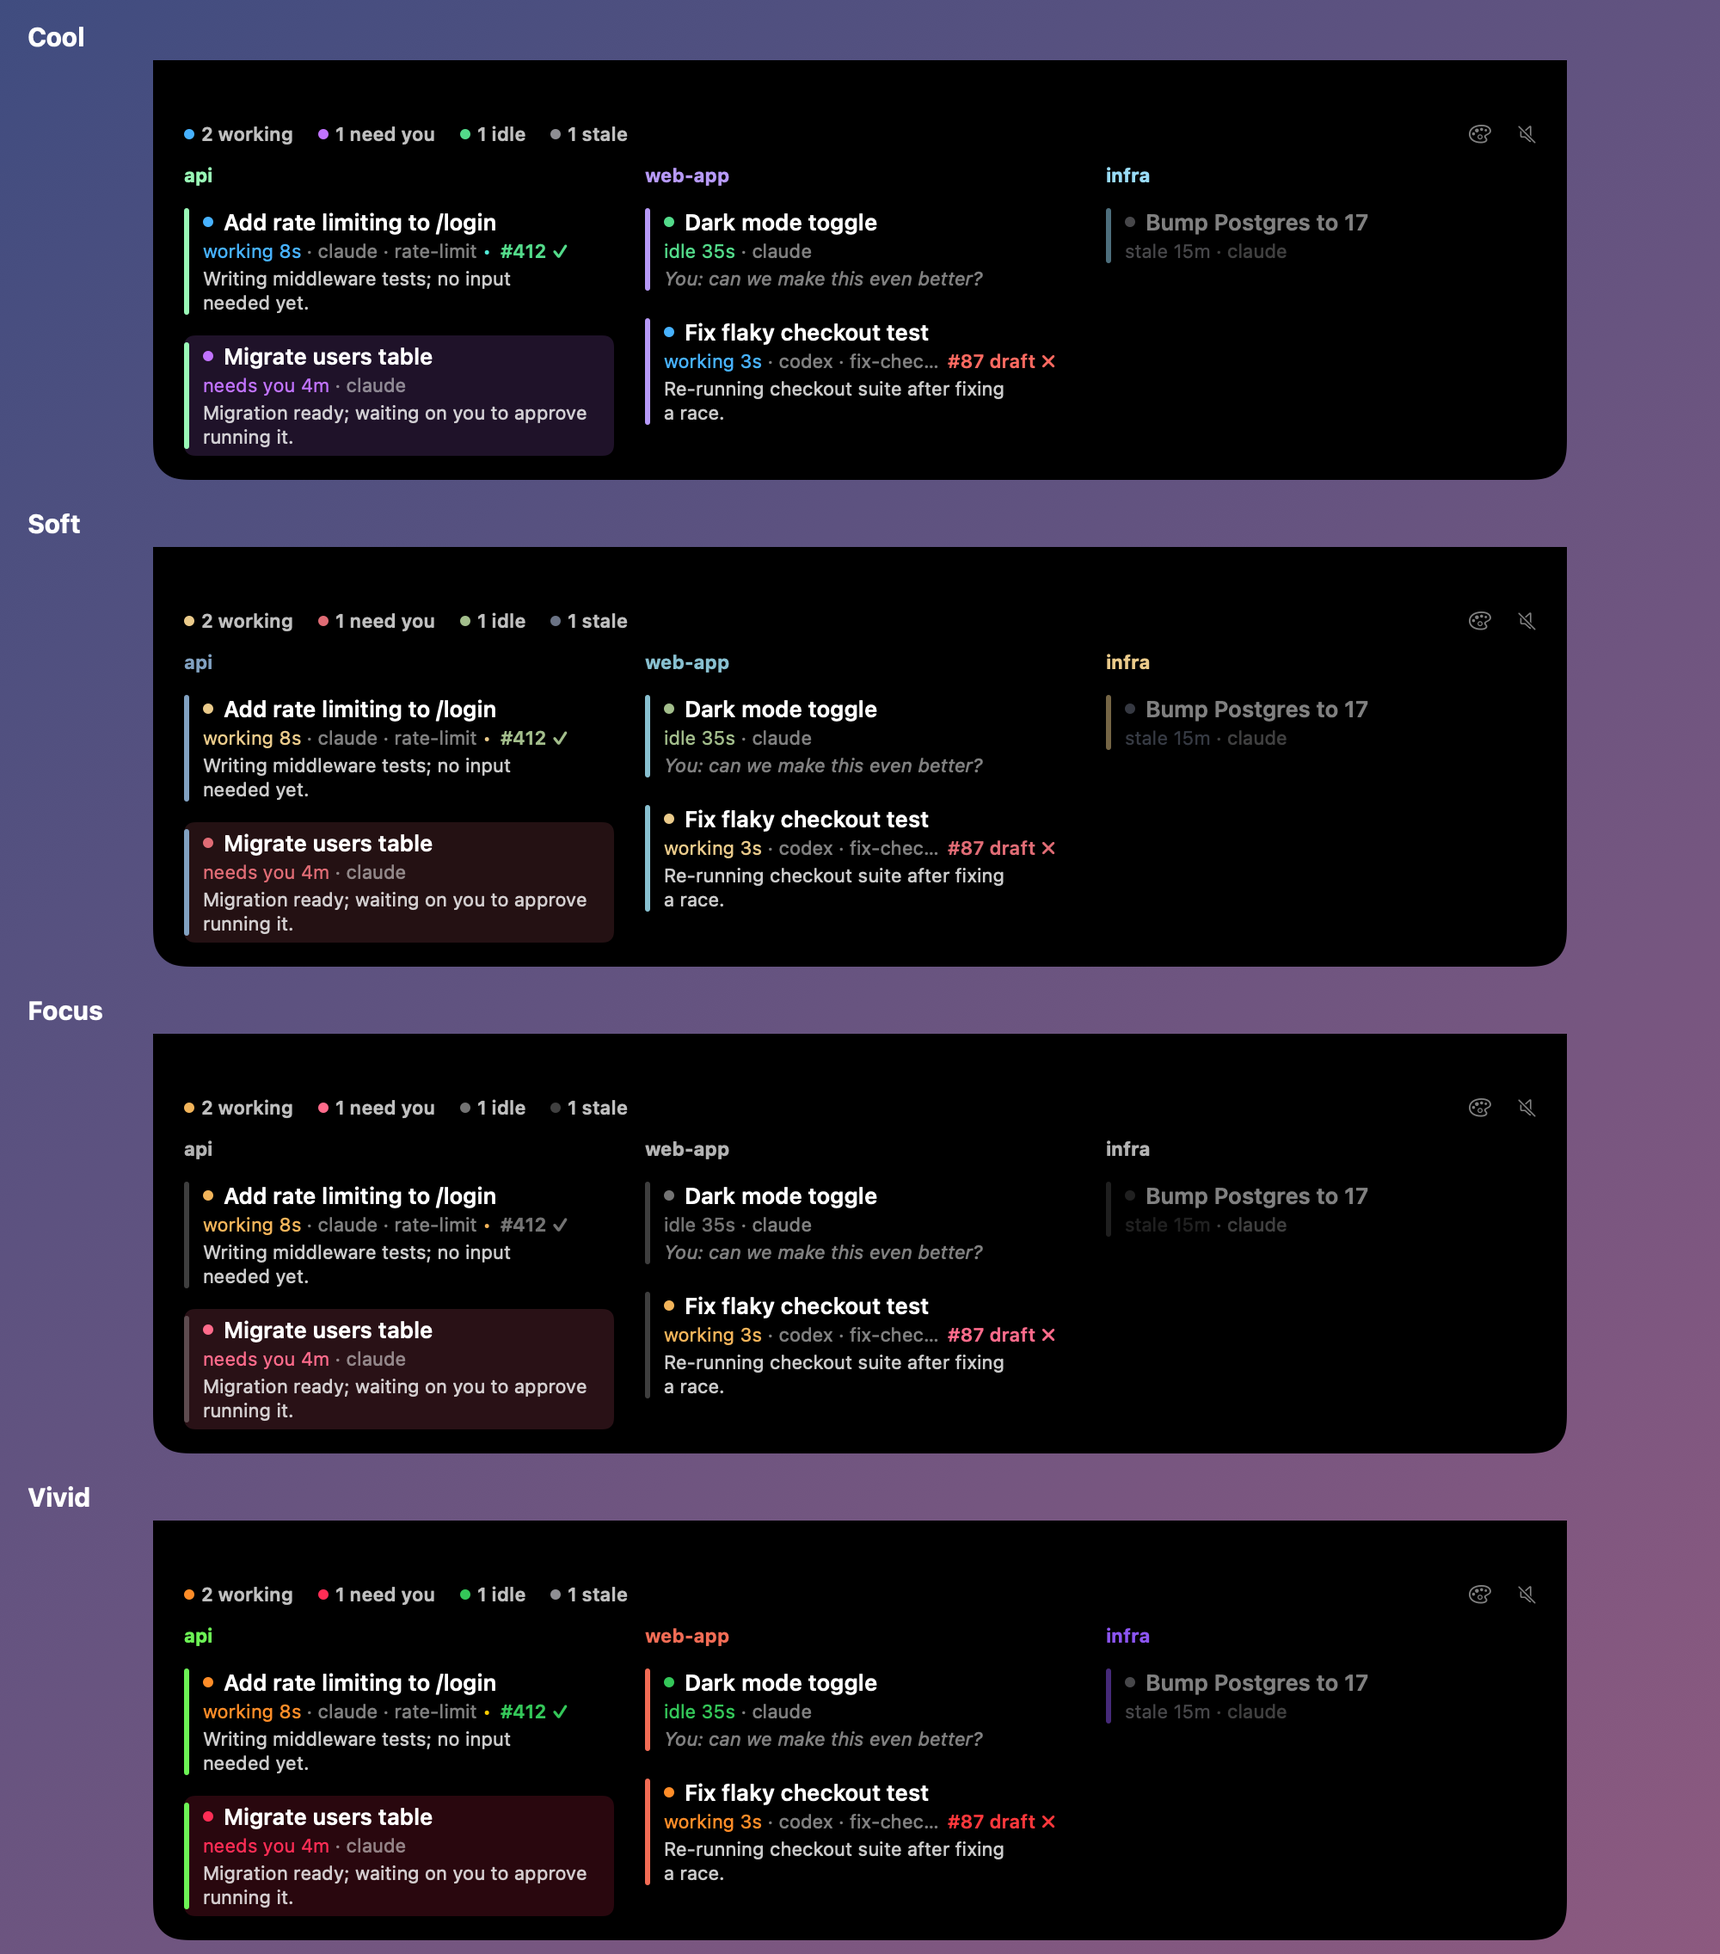
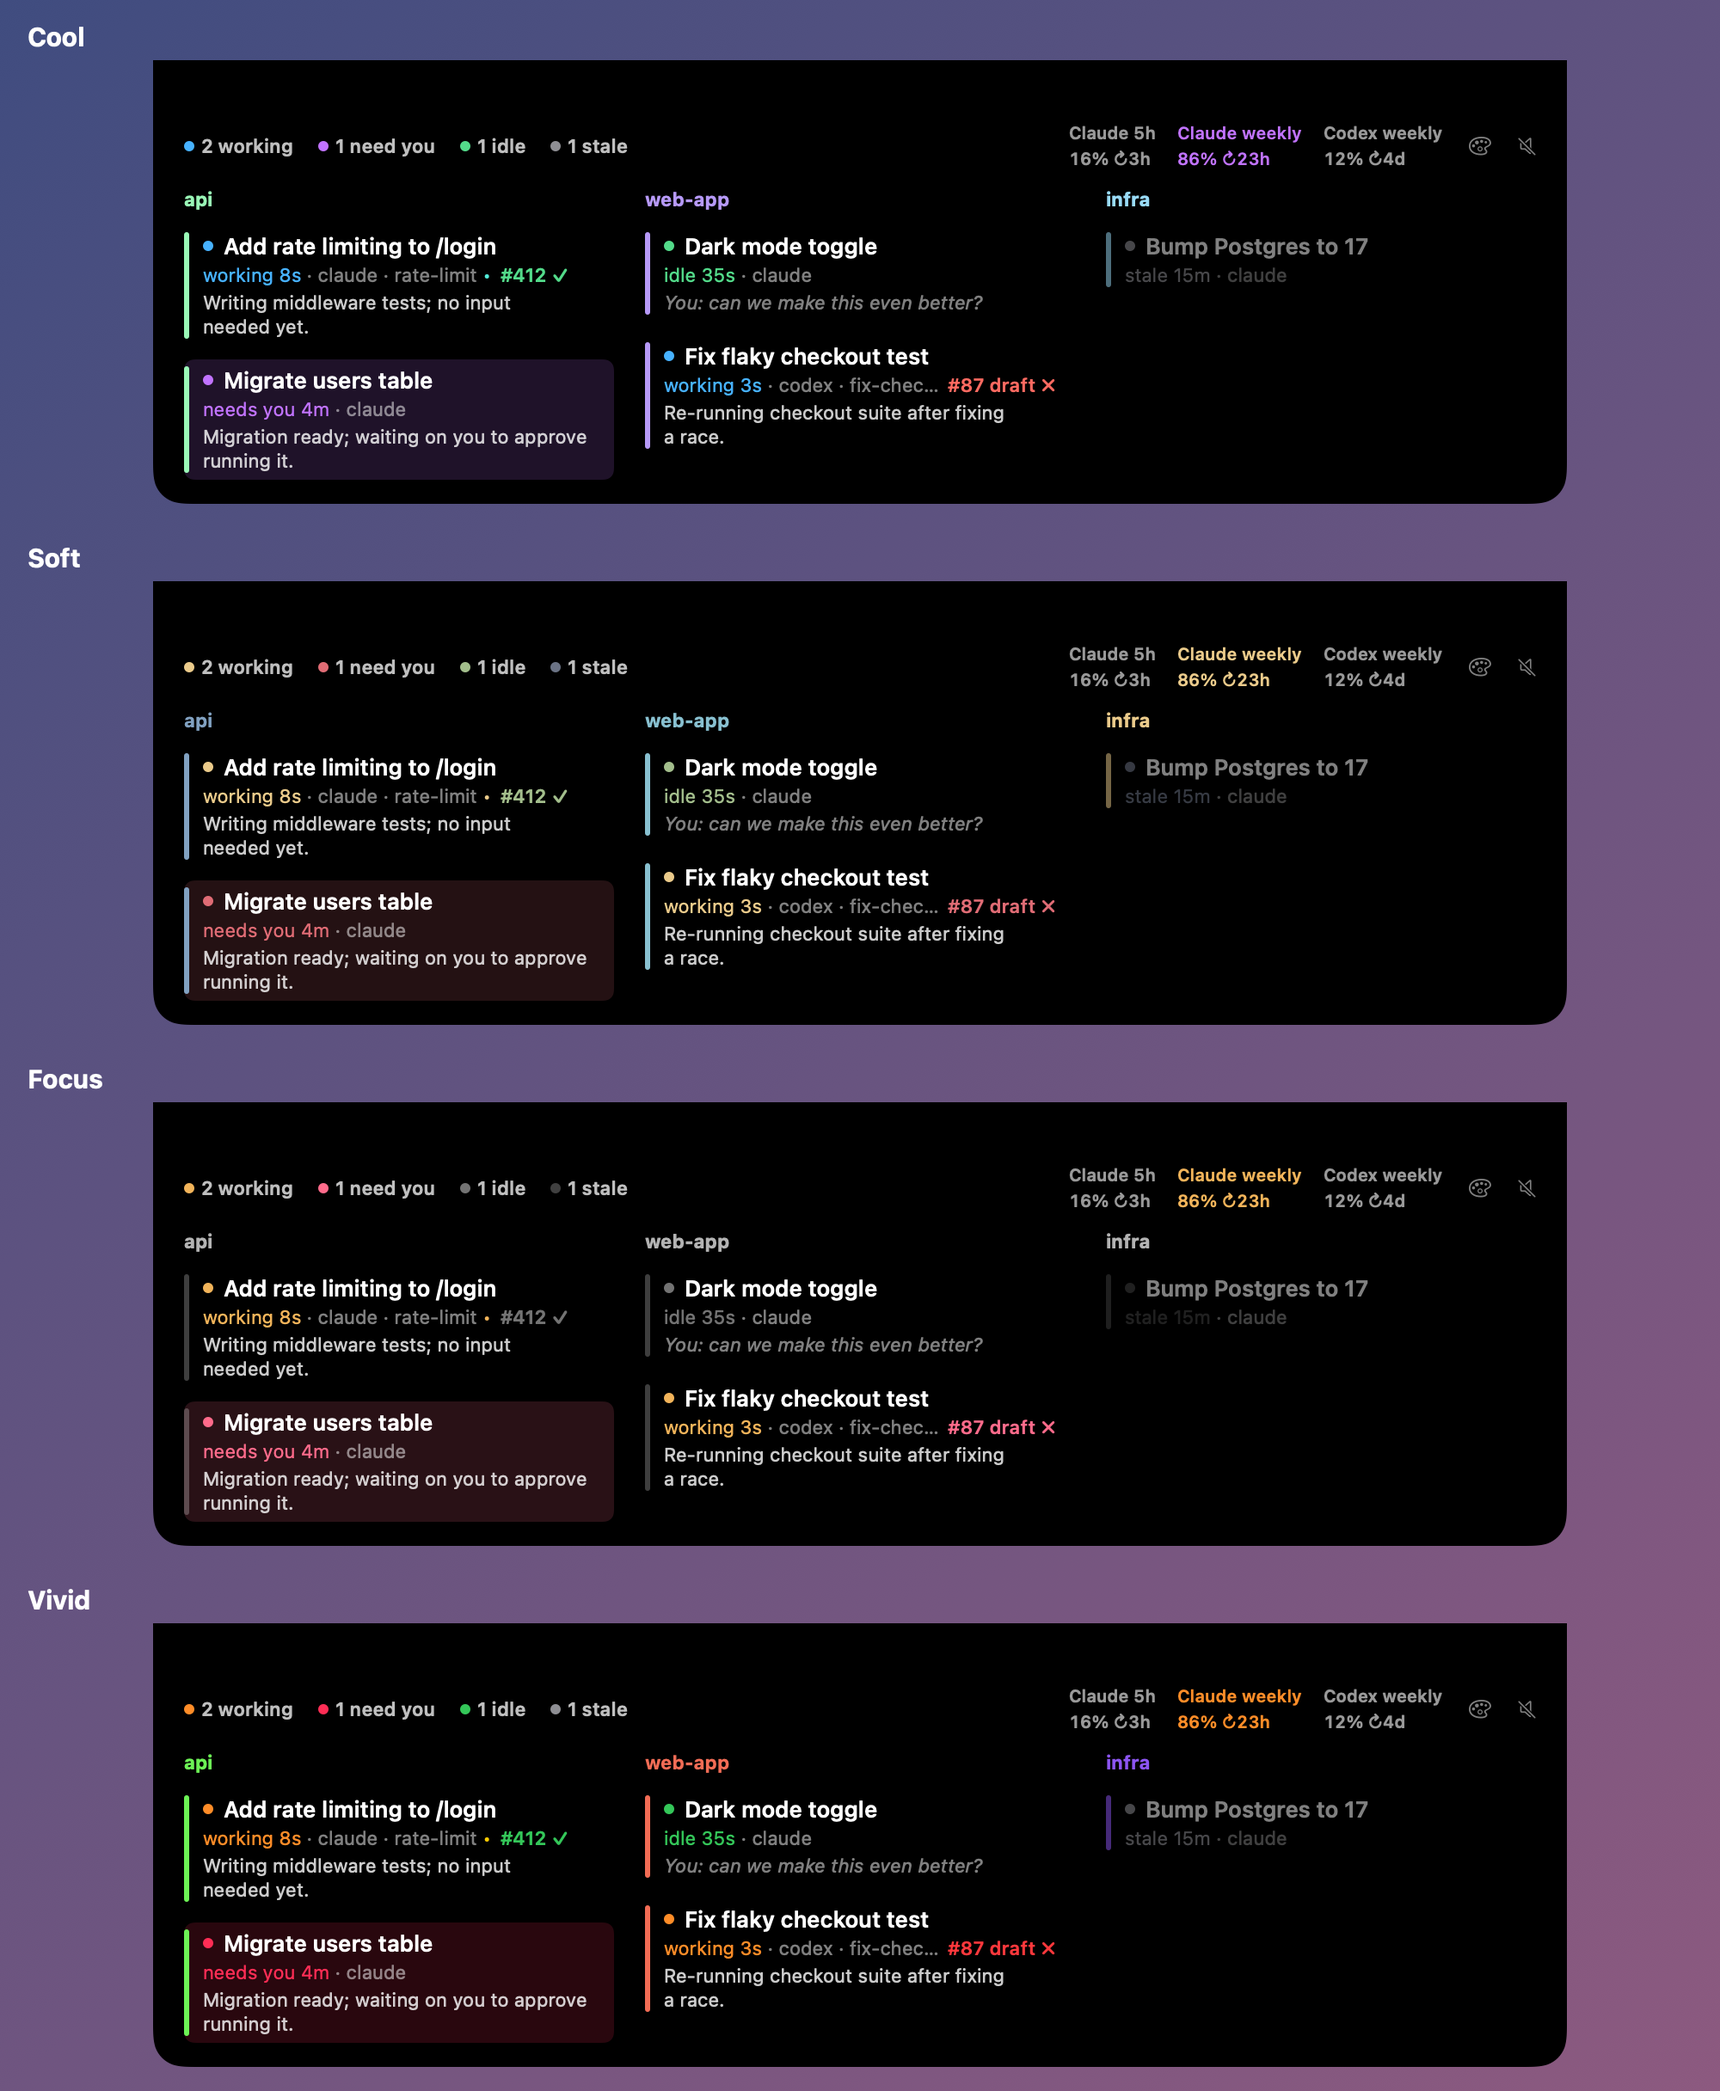
fix(notch): adapt usage limits to compact panels

diff --git a/notch/Notch.swift b/notch/Notch.swift
@@ -281,16 +281,16 @@ struct NotchView: View {
         VStack(alignment: .leading, spacing: 10) {
             if open {
                 Spacer().frame(height: notch.height - 6)
-                // Counts by state double as the color legend; keep the header compact.
-                HStack(spacing: 14) {
-                    count("working", p.working) { $0.status == "busy" }
-                    count("need you", p.needs) { $0.needs == true }
-                    count("idle", p.idle) { $0.status != "busy" && $0.needs != true && $0.stale != true }
-                    count("stale", p.stale) { $0.stale == true }
-                    Spacer(minLength: 24)
-                    paletteMenu
-                    soundToggle
-                }.font(.system(size: 11, weight: .semibold))
+                let repos = groups(store.sessions)
+                let contentWidth = max(264, min(room - 36, CGFloat(repos.count) * (colW + 18) - 18))
+                ViewThatFits(in: .horizontal) {
+                    header(showLimits: true, bars: true)
+                    header(showLimits: true)
+                    VStack(alignment: .leading, spacing: 8) {
+                        header(showLimits: false)
+                        if !store.limits.isEmpty { limitsRow(bars: false) }
+                    }
+                }.frame(width: contentWidth)
                 if store.sessions.isEmpty {
                     Text("No active sessions").foregroundStyle(.secondary)
                 }
@@ -298,7 +298,7 @@ struct NotchView: View {
                 // shortcut: no horizontal scrolling, so ~5 repos fill a laptop screen; add a ScrollView if that's not enough.
                 // Hug the content; scroll only on the axis where it outgrows the screen
                 // (sideways for many repos, down for many sessions).
-                let cols = columns(groups(store.sessions))
+                let cols = columns(repos)
                     .onGeometryChange(for: CGSize.self) { $0.size } action: { columnsSize = $0 }
                 let (maxW, maxH) = (room - 36, 520 - notch.height)
                 let (wide, tall) = (columnsSize.width > maxW, columnsSize.height > maxH)
@@ -353,6 +353,40 @@ struct NotchView: View {
         .onHover { h in store.open = h; withAnimation(.spring(duration: 0.25)) { open = h } }
         .frame(maxWidth: .infinity, maxHeight: .infinity, alignment: beside ? .topTrailing : .top)
         .padding(.trailing, beside ? trailing : 0)
+    }
+
+    func header(showLimits: Bool, bars: Bool = false) -> some View {
+        HStack(spacing: 14) {
+            count("working", p.working) { $0.status == "busy" }
+            count("need you", p.needs) { $0.needs == true }
+            count("idle", p.idle) { $0.status != "busy" && $0.needs != true && $0.stale != true }
+            count("stale", p.stale) { $0.stale == true }
+            Spacer(minLength: 24)
+            if showLimits && !store.limits.isEmpty { limitsRow(bars: bars) }
+            paletteMenu
+            soundToggle
+        }.font(.system(size: 11, weight: .semibold))
+    }
+
+    func limitsRow(bars: Bool) -> some View {
+        HStack(spacing: 12) {
+            ForEach(store.limits.flatMap { t in t.windows.map { ("\(t.tool) \($0.label)", $0) } }, id: \.0) { label, w in
+                let c = w.used >= 95 ? p.failing : w.used >= 80 ? p.warn : .white.opacity(0.6)
+                let layout = bars ? AnyLayout(HStackLayout(spacing: 6)) : AnyLayout(VStackLayout(alignment: .leading, spacing: 2))
+                layout {
+                    Text(label)
+                    if bars {
+                        ZStack(alignment: .leading) {
+                            Capsule().fill(.white.opacity(0.15))
+                            Capsule().fill(c).frame(width: 44 * min(w.used, 100) / 100)
+                        }.frame(width: 44, height: 4)
+                    }
+                    Text("\(Int(w.used.rounded()))%" + (w.reset.map { " ↻\($0)" } ?? "")).monospacedDigit()
+                }
+                .font(.system(size: bars ? 11 : 10, weight: .semibold))
+                .foregroundStyle(c)
+            }
+        }
     }
 
     /// Header icon: click for the next palette, right-click to pick one. Remembered across launches.
@@ -538,17 +572,17 @@ struct NotchApp {
         ToolLimits(tool: "Claude", windows: [.init(label: "5h", used: 16, reset: "3h"), .init(label: "weekly", used: 86, reset: "23h")]),
         ToolLimits(tool: "Codex", windows: [.init(label: "weekly", used: 12, reset: "4d")]),
     ]
-    save(NotchView(store: withLimits, notch: notch, open: true), "notch-open.png", height: 250)
+    save(NotchView(store: withLimits, notch: notch, open: true), "notch-open.png", height: 270)
     if CommandLine.arguments.contains("--palettes") { // every palette on one sheet, for comparing
         let sheet = VStack(spacing: 0) {
             ForEach(Palette.all) { q in
                 VStack(alignment: .leading, spacing: 4) {
                     Text(q.name).font(.system(size: 15, weight: .bold)).foregroundStyle(.white).padding(.leading, 16)
-                    NotchView(store: withLimits, notch: notch, open: true, forcedPalette: q).frame(width: 1000, height: 250)
+                    NotchView(store: withLimits, notch: notch, open: true, forcedPalette: q).frame(width: 1000, height: 270)
                 }.padding(.top, 10)
             }
         }
-        save(sheet, "palettes.png", height: CGFloat(Palette.all.count) * 284)
+        save(sheet, "palettes.png", height: CGFloat(Palette.all.count) * 304)
     }
     save(NotchView(store: Store(sample: sample, finished: sample[2]), notch: notch), "notch-finished.png", height: 78)
 }

diff --git a/tests/NotchLayoutTests.swift b/tests/NotchLayoutTests.swift
@@ -2,7 +2,7 @@ import SwiftUI
 
 @main struct NotchLayoutTests {
     @MainActor static func main() {
-        for count in 1...2 {
+        for count in 1...3 {
             let sessions = (0..<count).map { i in
                 Session(tool: "claude", id: "\(i)", title: "Test session", project: "repo\(i)", repo: "repo\(i)",
                         cwd: "", status: "idle", last_prompt: "continue", idle_secs: 6, summary: nil, tty: nil)
@@ -14,8 +14,13 @@ import SwiftUI
             ]
             let view = NotchView(store: store, notch: CGSize(width: 190, height: 32), open: true)
             guard let image = ImageRenderer(content: view).nsImage else { fatalError("Panel did not render") }
-            let expected: CGFloat = count == 1 ? 300 : 554 // columns, gaps and panel padding
+            let expected = max(300, CGFloat(count) * 268 + 18) // columns, gaps and panel padding
             assert(abs(image.size.width - expected) < 1, "Usage widened \(count) repos to \(image.size.width)pt")
+            store.limits = []
+            let withoutLimits = ImageRenderer(content: view).nsImage!
+            if count < 3 {
+                assert(image.size.height > withoutLimits.size.height, "Compact limits are missing for \(count) repos")
+            }
         }
         print("Notch layout tests passed")
     }

diff --git a/README.md b/README.md
@@ -26,7 +26,7 @@ web-app
 
 - `ccs`: list sessions (`--watch` to refresh, `--json` for tools)
 - `ccs --limits`: Claude 5h/weekly and Codex usage, read from what each tool caches locally (no tokens or network). With the default Cool palette, a bar turns violet at 80% and coral at 95%.
-- `notch`: macOS overlay; hover the notch to see sessions. Usage bars stay in `ccs --limits` to keep the panel compact; the collapsed pill in `--beside-notch` mode still warns about high usage. Palettes: Cool (default), Soft, Focus, Vivid. Click the palette icon in the panel header for the next one, right-click to pick; remembered. `--palette <id>` for one run.
+- `notch`: macOS overlay; hover the notch to see sessions. Usage limits show percentages and reset times; narrow panels hide progress bars and move limits below the controls when needed. Palettes: Cool (default), Soft, Focus, Vivid. Click the palette icon in the panel header for the next one, right-click to pick; remembered. `--palette <id>` for one run.
 - `hooks/summarize.sh`: Claude Code Stop hook that writes a one-line AI summary per session (Haiku, at most once per 3 min per session)
 - `hooks/statusline.sh`: optional Claude Code status line; a second source for the Claude limits when `~/.claude.json` has none
 
